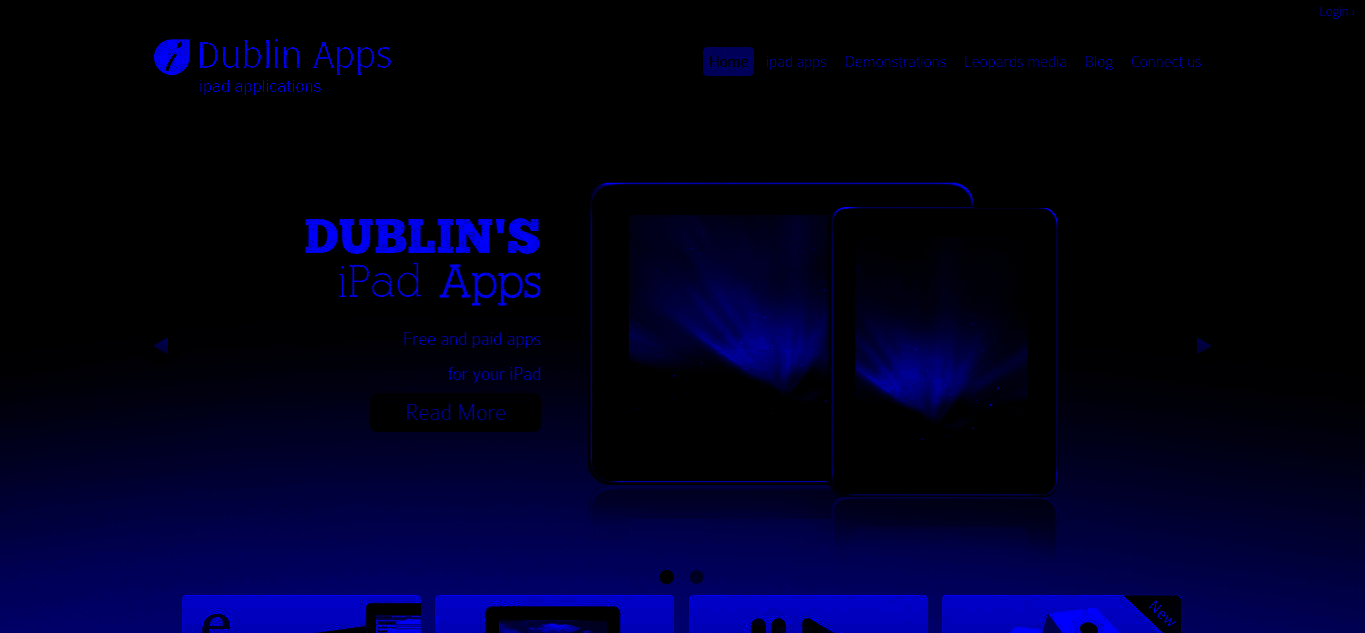
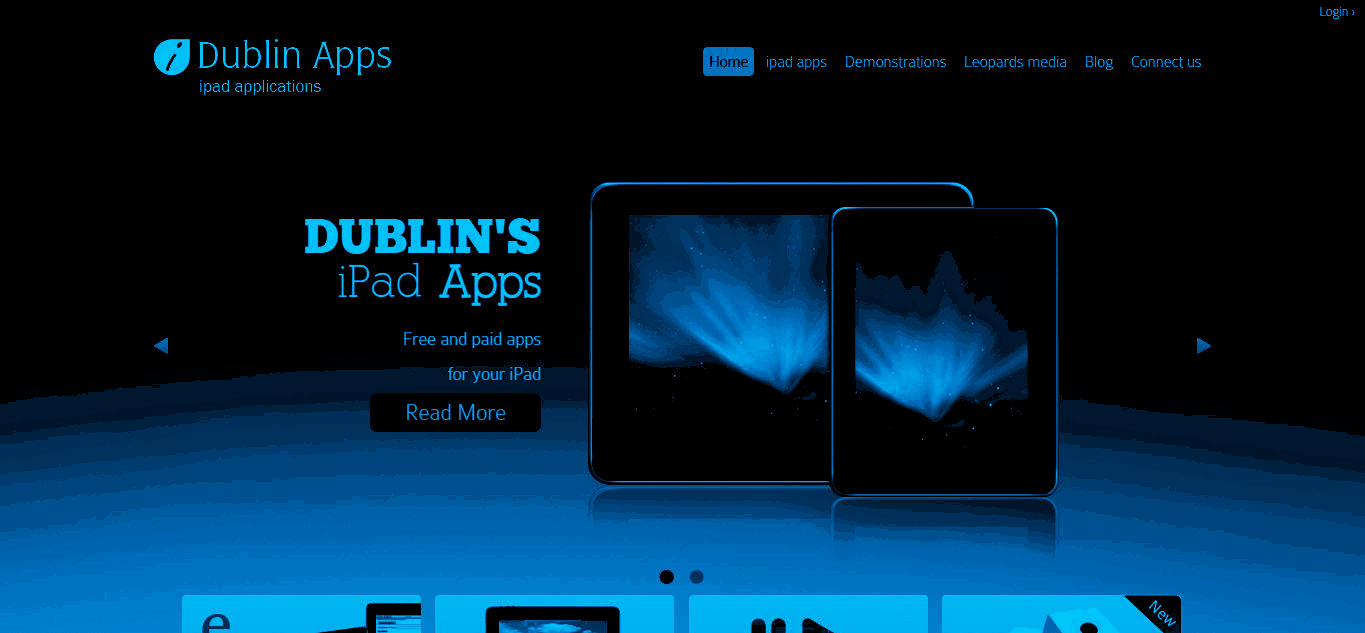
211022
2300

diff --git a/css/styles.css b/css/styles.css
@@ -27,22 +27,22 @@ body {
 .link {
   font-family: 'Goldman', Sans-Serif;
   text-decoration: none;
-  color: #AD0E00; }
+  color: #7240FF; }
   .link:hover {
     color: white; }
 
 .header {
   display: grid;
   grid-template-columns: 1fr 2fr 1fr;
-  border-bottom: 7px solid #388BFF;
-  box-shadow: 0px 0px 38px #388BFF; }
+  border-bottom: 5px solid #2DCEF7;
+  box-shadow: 0px 0px 38px #2DCEF7; }
 
 .header__hi {
   padding: 10px;
   margin-top: 0px;
   margin-bottom: 0px;
   text-align: center;
-  color: #a34dff;
+  color: #0058D3;
   font-size: 25px;
   font-weight: 700;
   font-family: 'Goldman', Sans-Serif;
@@ -79,8 +79,8 @@ body {
   padding: 40px;
   background-color: black;
   border-radius: 30px;
-  border: 3px solid #388BFF;
-  box-shadow: 0px 0px 18px #388BFF; }
+  border: 3px solid #0058D3;
+  box-shadow: 0px 0px 18px #0058D3; }
 
 .my-foto {
   display: block;
@@ -100,16 +100,16 @@ body {
   padding: 40px;
   background-color: black;
   border-radius: 30px;
-  border: 3px solid #388BFF;
-  box-shadow: 0px 0px 18px #388BFF; }
+  border: 3px solid #0058D3;
+  box-shadow: 0px 0px 18px #0058D3; }
 
 .portfolio {
   grid-area: 1 / 2 / 4 / 3;
   padding: 40px;
   background-color: black;
   border-radius: 30px;
-  border: 3px solid #388BFF;
-  box-shadow: 0px 0px 18px #388BFF; }
+  border: 3px solid #0058D3;
+  box-shadow: 0px 0px 18px #0058D3; }
 
 .skills__items {
   display: grid;
@@ -140,17 +140,17 @@ body {
   padding: 10px;
   background-color: black;
   border-radius: 20px;
-  border: 2px solid #0008a8;
-  box-shadow: 0px 0px 12px #0008a8; }
+  border: 2px solid #0058D3;
+  box-shadow: 0px 0px 12px #0058D3; }
 
 .button {
   text-align: center;
   font-family: 'Goldman', Sans-Serif;
   padding: 10px;
   background-color: black;
-  border: 3px solid #0008a8;
+  border: 3px solid #0058D3;
   border-radius: 15px;
-  box-shadow: 0px 0px 3px #0008a8;
+  box-shadow: 0px 0px 3px #0058D3;
   color: #388BFF;
   transition-property: box-shadow, border, color;
   transition-duration: 0.5s;

diff --git a/source/styles.scss b/source/styles.scss
@@ -11,16 +11,16 @@
   padding: 40px;
   background-color: black;
   border-radius: 30px;
-  border: 3px solid #388BFF;
-  box-shadow: 0px 0px 18px #388BFF;
+  border: 3px solid #0058D3;
+  box-shadow: 0px 0px 18px #0058D3;
 }
 @mixin button_style {
   font-family: 'Goldman', Sans-Serif;
   padding: 10px;
   background-color: black;
-  border: 3px solid #0008a8; 
+  border: 3px solid #0058D3; 
   border-radius: 15px;
-  box-shadow: 0px 0px 3px #0008a8;
+  box-shadow: 0px 0px 3px #0058D3;
   color: #388BFF;
   transition-property: box-shadow, border, color;
   transition-duration: 0.5s;
@@ -58,7 +58,7 @@ body {
 .link {
   font-family: 'Goldman', Sans-Serif;
   text-decoration: none;
-  color: #AD0E00;
+  color: #7240FF;
   &:hover {
     color: white;
   }
@@ -66,15 +66,15 @@ body {
 .header {
   display: grid;
   grid-template-columns: 1fr 2fr 1fr;
-  border-bottom: 7px solid #388BFF;
-  box-shadow: 0px 0px 38px #388BFF;
+  border-bottom: 5px solid #2DCEF7;
+  box-shadow: 0px 0px 38px #2DCEF7;
 }
 .header__hi  {
   padding: 10px;
   margin-top: 0px;
   margin-bottom: 0px;
   text-align: center;
-  color: #a34dff;
+  color: #0058D3;
   font-size: 25px;
   font-weight: 700;
   font-family: 'Goldman', Sans-Serif;
@@ -162,8 +162,8 @@ body {
   padding: 10px;
   background-color: black;
   border-radius: 20px;
-  border: 2px solid #0008a8;
-  box-shadow: 0px 0px 12px #0008a8;
+  border: 2px solid #0058D3;
+  box-shadow: 0px 0px 12px #0058D3;
 }
 .button {
 //  width: 20%;

diff --git a/index.html b/index.html
@@ -15,8 +15,8 @@
       <section class="header__left">
       </section>
       <section class="header__center">
-<!--        <h1 class="header__hi"></h1>-->
-        <h2 class="header__description">Hi, i'm Serge. This page contains a short info about me, my skills and my portfolio.</h2>
+        <h1 class="header__hi">Hi, i'm Serge.</h1>
+        <h1 class="header__description"> This page contains a short info about me, my skills and my portfolio.</h1>
       </section>
       <section class="header__right">
       </section>
@@ -25,7 +25,7 @@
       <section class="about-me">
         <section class="about">
           <h2 class="about__header">about me</h2>
-          <p><img class="my-foto" src="assets/images/me.jpg" alt="Image1"  ></p>
+          <p><img class="my-foto" src="assets/images/me.png" alt="Image1"  ></p>
           <div class="resume__text">
             <p class="text">I'm beginner front-end developer. Living in Kharkiv, Ukraine. </p>
             <p class="text">Currently learning html, css, js</p>
